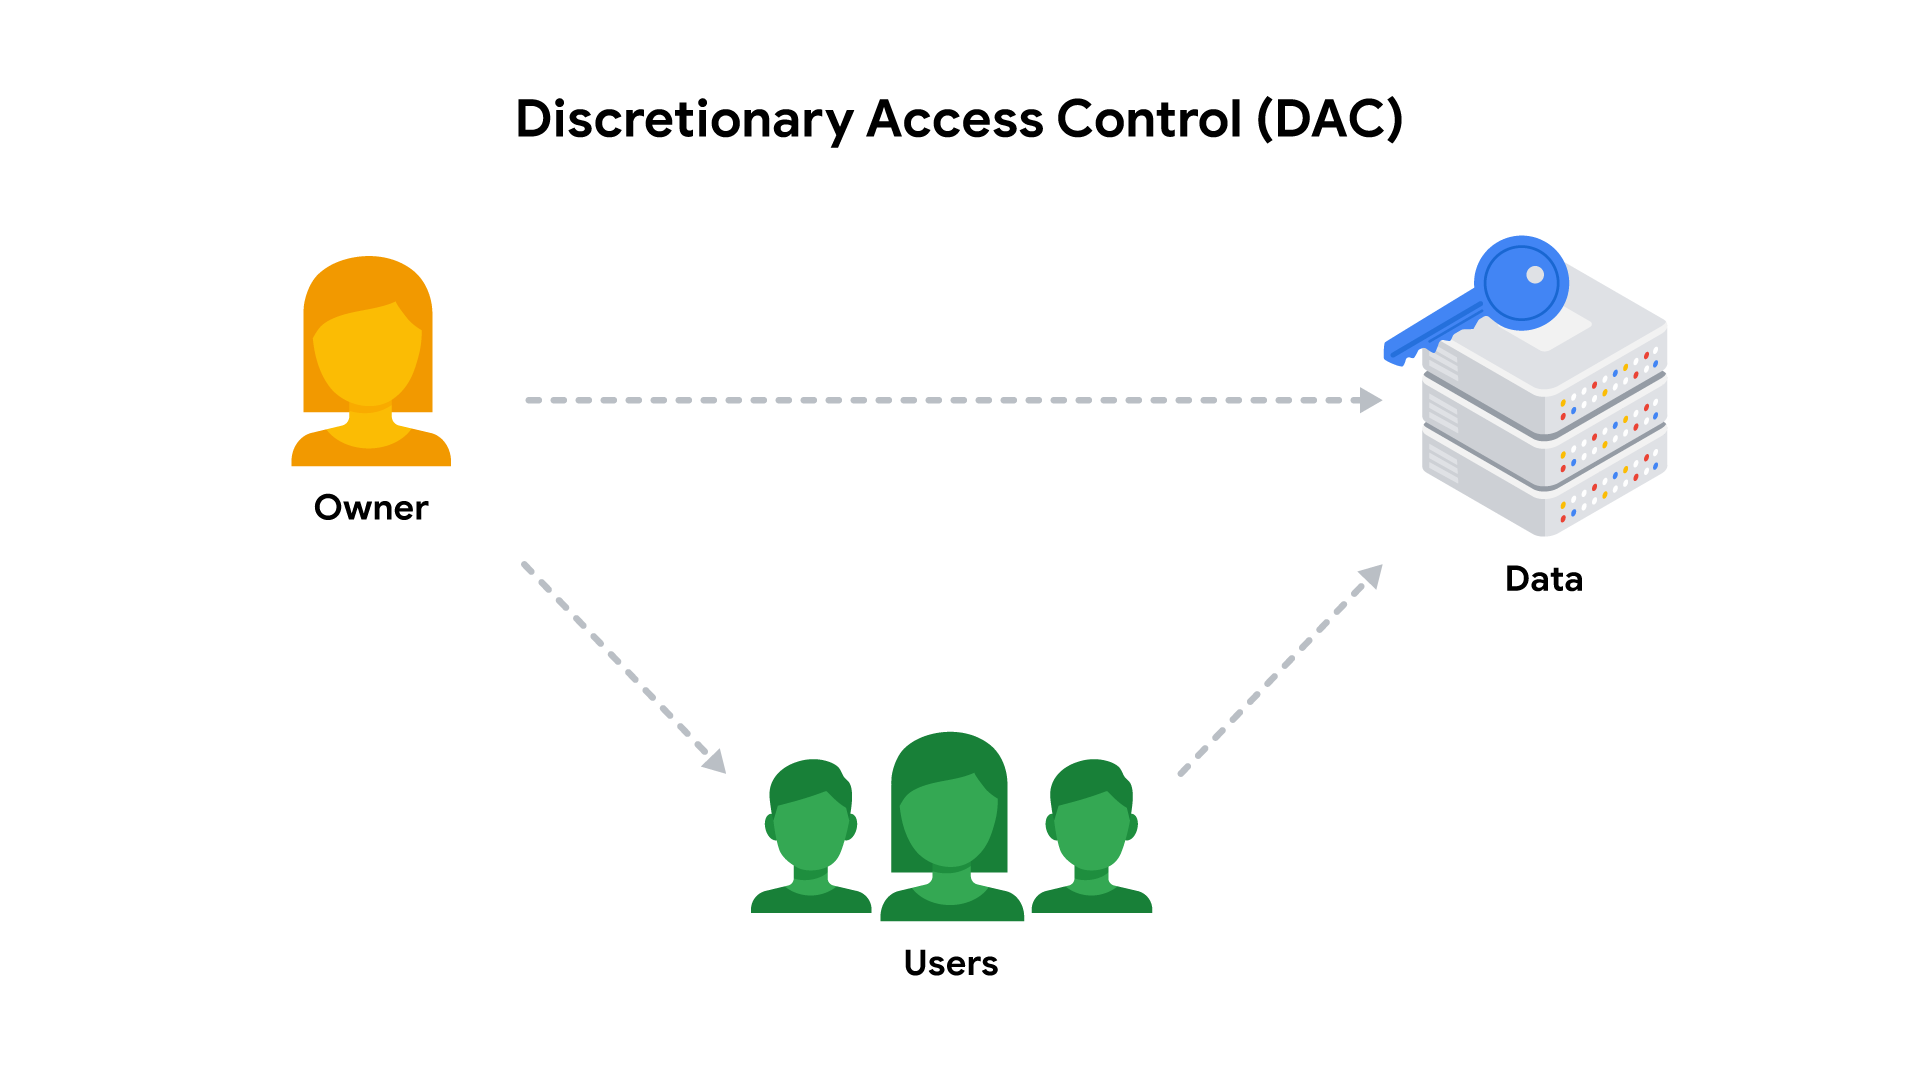
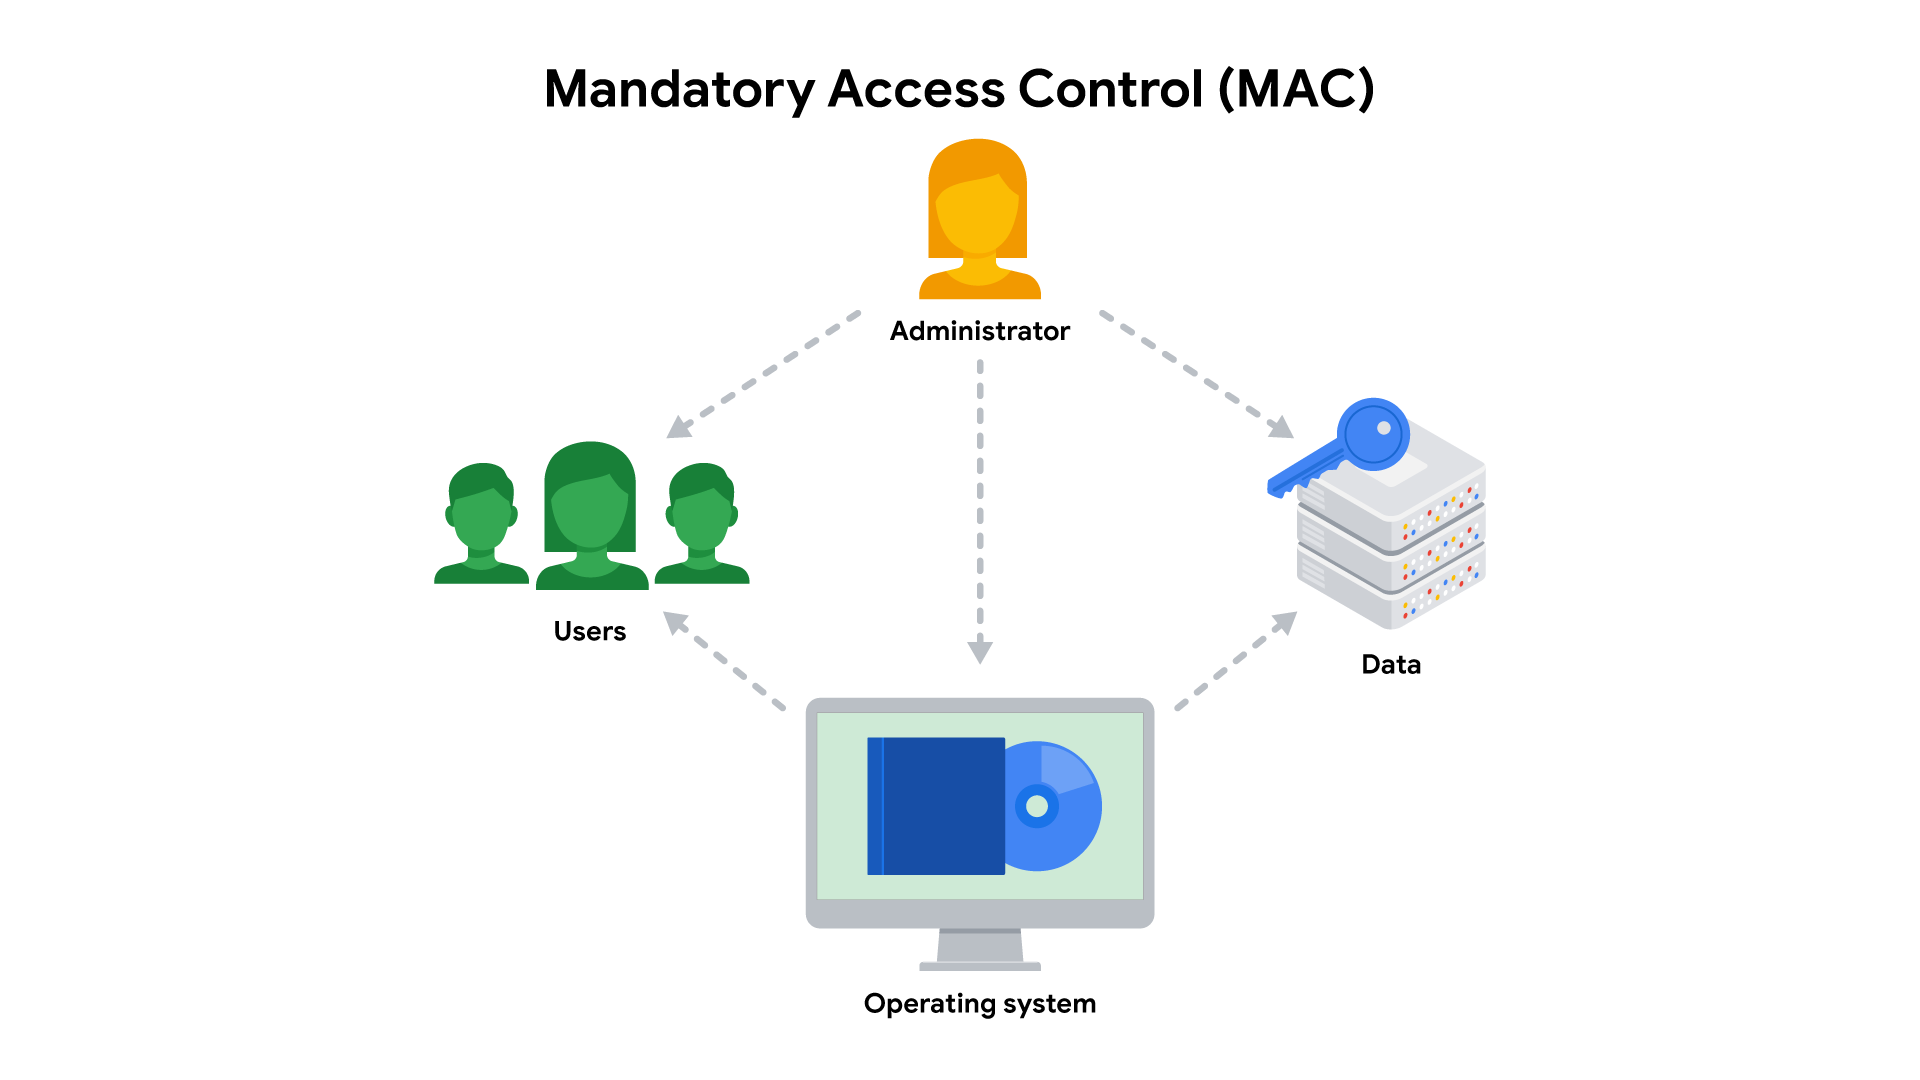
GITBOOK-83: No subject

diff --git a/certificates/google-cybersecurity-profesional-certificate.md b/certificates/google-cybersecurity-profesional-certificate.md
@@ -383,11 +383,11 @@ cmp [FILE_1] [FILE_2]
 * **Identity and access management (IAM):** a collection of processes and technologies that helps organizations manage digital identities in their environment.
 * **Mandatory access control (MAC):** is the strictest of the three frameworks, and authorization in this model is based on a strict need-to-know basis, access to information must be granted manually by a central authority or system administrator, and, is also known as non-discretionary control because access isn’t given at the discretion of the data owner.
 
-<figure><img src="../.gitbook/assets/image.png" alt=""><figcaption></figcaption></figure>
+<figure><img src="../.gitbook/assets/image (1).png" alt=""><figcaption></figcaption></figure>
 
 * **Discretionary access control (DAC):** is typically applied when a data owner decides appropriate levels of access.
 
-<figure><img src="../.gitbook/assets/image (1).png" alt=""><figcaption></figcaption></figure>
+<figure><img src="../.gitbook/assets/image (1) (1).png" alt=""><figcaption></figcaption></figure>
 
 * **Role-based access control (RBAC):** is used when authorization is determined by a user's role within an organization.
 
@@ -397,3 +397,25 @@ cmp [FILE_1] [FILE_2]
 
 #### 2.3.1 Flaws in the system
 
+* **CI/CD (Continuous Integration, Continuous Delivery, and Continuous Deployment)**: automates, that is what enables modern development teams to be agile and respond quickly to user needs, the entire software release process, from code creation to deployment.
+* **Continuous Integration (CI):** is all about frequently merging code changes from different developers into a central location, triggering automated processes. It catches integration problems early, leading to higher quality code, through an automated process:
+  1. Code is integrated
+  2. The system automatically builds and tests it.&#x20;
+  3. The immediate feedback loop reveals integration problems as soon as they occur.&#x20;
+* **Continuous Delivery (CD):** means your code is always ready to be released to users. After passing automated tests, code is automatically deployed to a staging environment (a practice environment) or prepared for final release, and a manual approval is needed before going live to production, providing a control point.
+* **Continuous Deployment (CD):** automates the entire release process, where all automated checks are automatically deployed directly to the live production environment, with no manual approval being all about speed and efficiency.
+
+<figure><img src="../.gitbook/assets/image.png" alt=""><figcaption></figcaption></figure>
+
+* **Dynamic Application Security Testing (DAST):** automated tests that find vulnerabilities in running applications in realistic staging environments.
+* **Security Compliance Checks:** automated checks that ensure software meets your organization’s security rules and policies.
+* **Infrastructure Security Validations:** checks that make sure the systems hosting your software are secure.
+* **Secure Automation:** CI/CD automates repetitive tasks: building, testing, deploying. When automation is implemented securely, this reduces errors from manual work, speeds processes, and importantly, reduces human errors that create vulnerabilities.&#x20;
+* **Improved Code Quality Via Security Checks:** automated tests in CI/CD rigorously check code before release, including automated security tests, leading to fewer bugs and security weaknesses in final software, but only if security tests integrate effectively within the pipeline.
+* **Faster Time to Market for Security Updates:** CI/CD accelerates releases, which enables faster delivery of new features, bug fixes, and security updates, improving response time to both user needs and security threats. This rapid deployment of security updates is a significant security advantage of a well-secured CI/CD pipeline.
+* **Enhanced Collaboration and Feedback with Safety Focus:** CI/CD encourages collaboration between development, security, testing, and operations teams. This collaborative environment is essential to build security into the pipeline and address vulnerabilities proactively.
+* **Reduced Risk:** Frequent, smaller releases, a result of CI/CD, are less risky than large, infrequent releases. If issues arise, pinpointing and fixing the problem becomes easier. Smaller, frequent releases limit the potential impact of a security flaw introduced in any single release, provided security monitoring and testing remain continuous.
+* **Risks from Third-Party Code:** common vulnerabilities and exposures, or CVEs, those vulnerabilities can be unknowingly added to your application during the automated build process. This is done by regularly scan and update your dependencies, making sure you’re using secure versions of all external components.
+*   **Controlling Access:** Weak access controls in CI/CD tools, code repositories, and related systems are a significant vulnerability. Unauthorized access can allow attackers to modify code, pipeline configurations, or inject malicious content.
+
+    Action Step: Implement strong access management using Role-Based Access Control (RBAC). Ensure only authorized individuals can access and change critical pipeline elements.

diff --git a/README.md b/README.md
@@ -15,7 +15,7 @@ icon: hearts
 * I'm a student pursuing a Bachelor's degree in <mark style="color:$primary;">Computer Engineering</mark> at the Escuela Politécnica Superior @ UAH.
 * My main interest lie in <mark style="color:$primary;">cybersecurity</mark>, focusing on deepening my knowledge and practical skills.
 * Currently working as a <mark style="color:$primary;">Junior Analyst</mark> in Crisis & Incident Response @ Deloitte T\&T Cyber.
-* Check out my [resume](https://drive.google.com/file/d/1LX3JLYcRwBXYVGnbMFfzHElTafTa703i/view?usp=sharing) for more details about <mark style="color:$primary;">my background</mark> — I’m always open to feedback and suggestions!
+* Check out my [resume](https://drive.google.com/file/d/1HzELR5w2EfgwZzcS-MZo0roDEhNj0zI5/view?usp=sharing) for more details about <mark style="color:$primary;">my background</mark> — I’m always open to feedback and suggestions!
 
 ### — what's my purpose?
 
